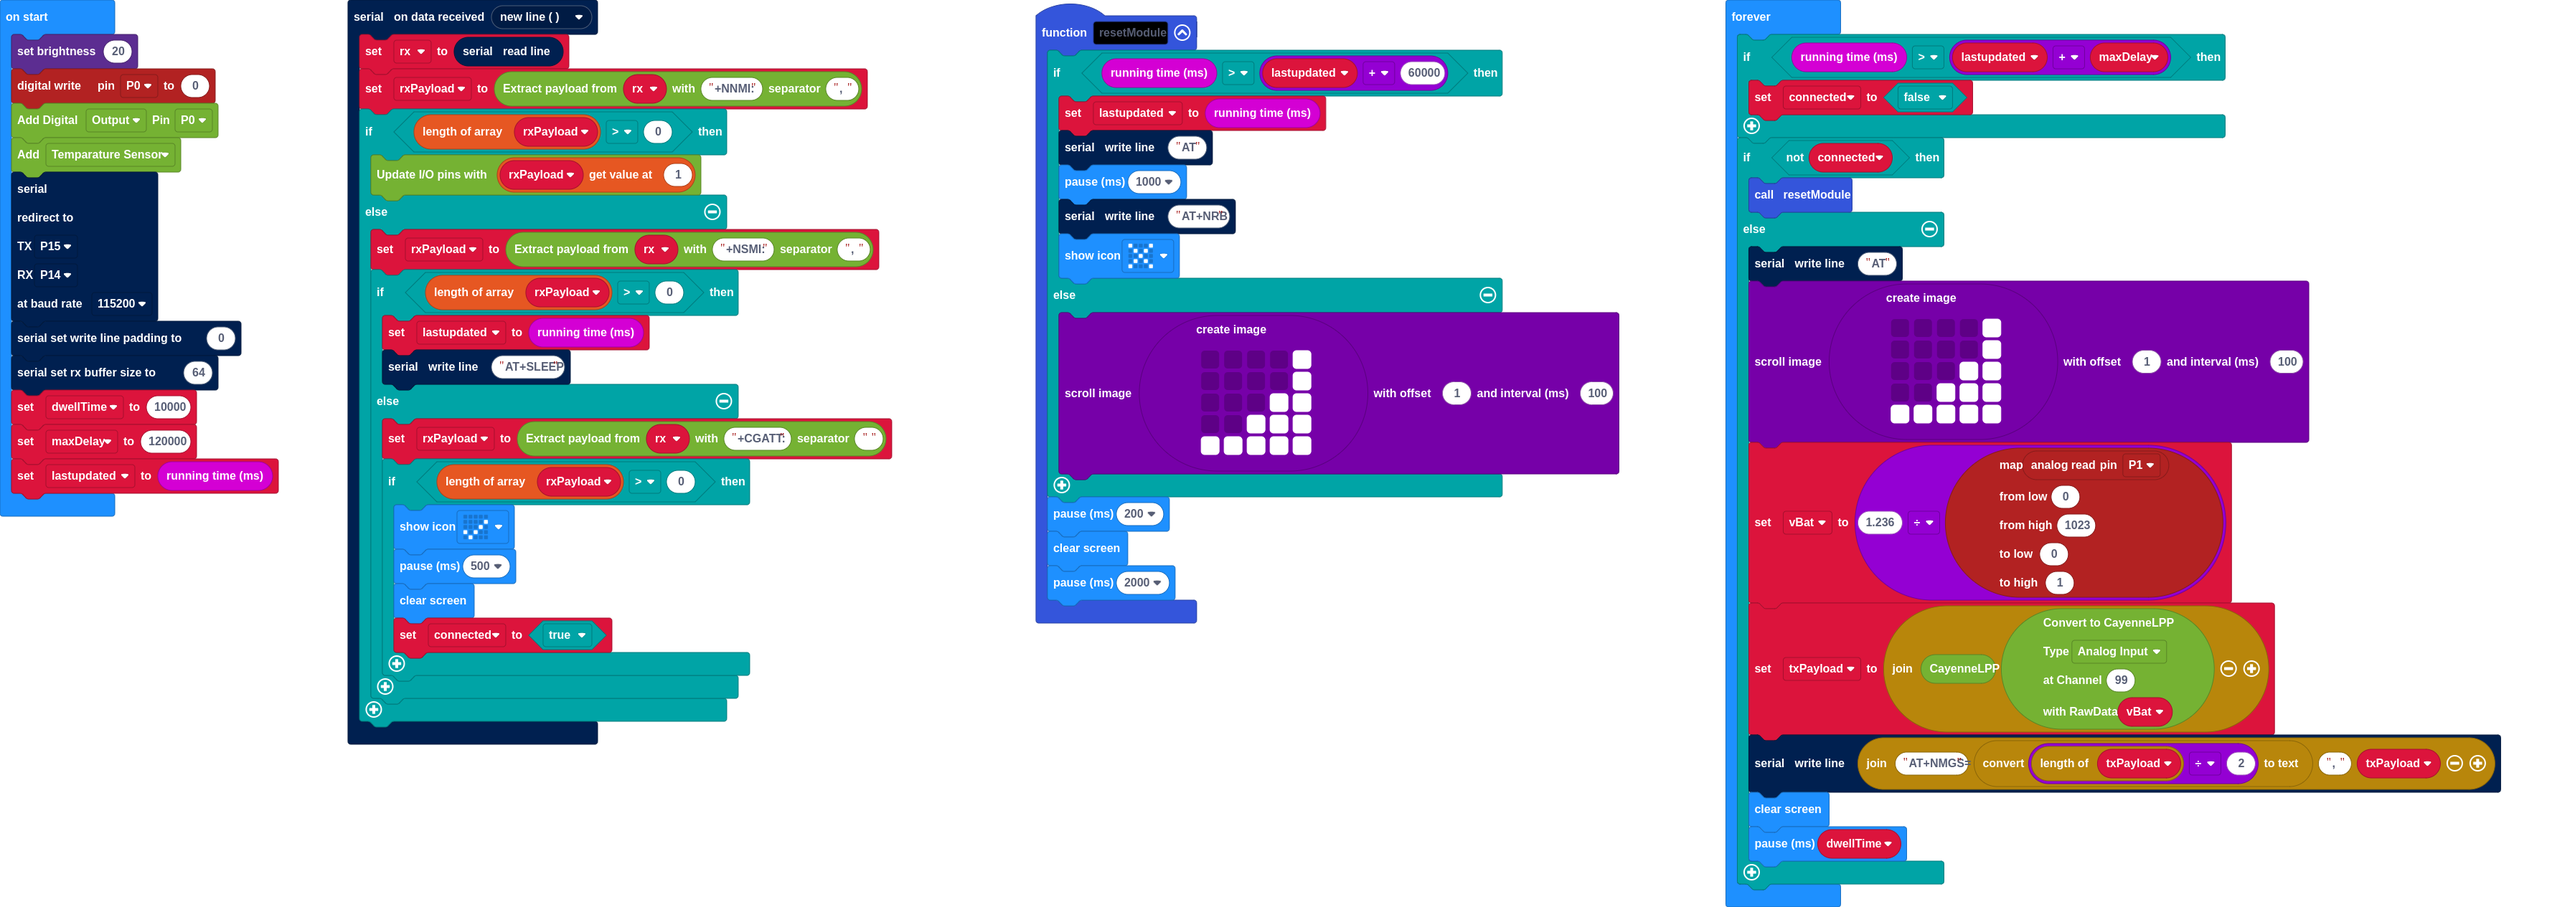
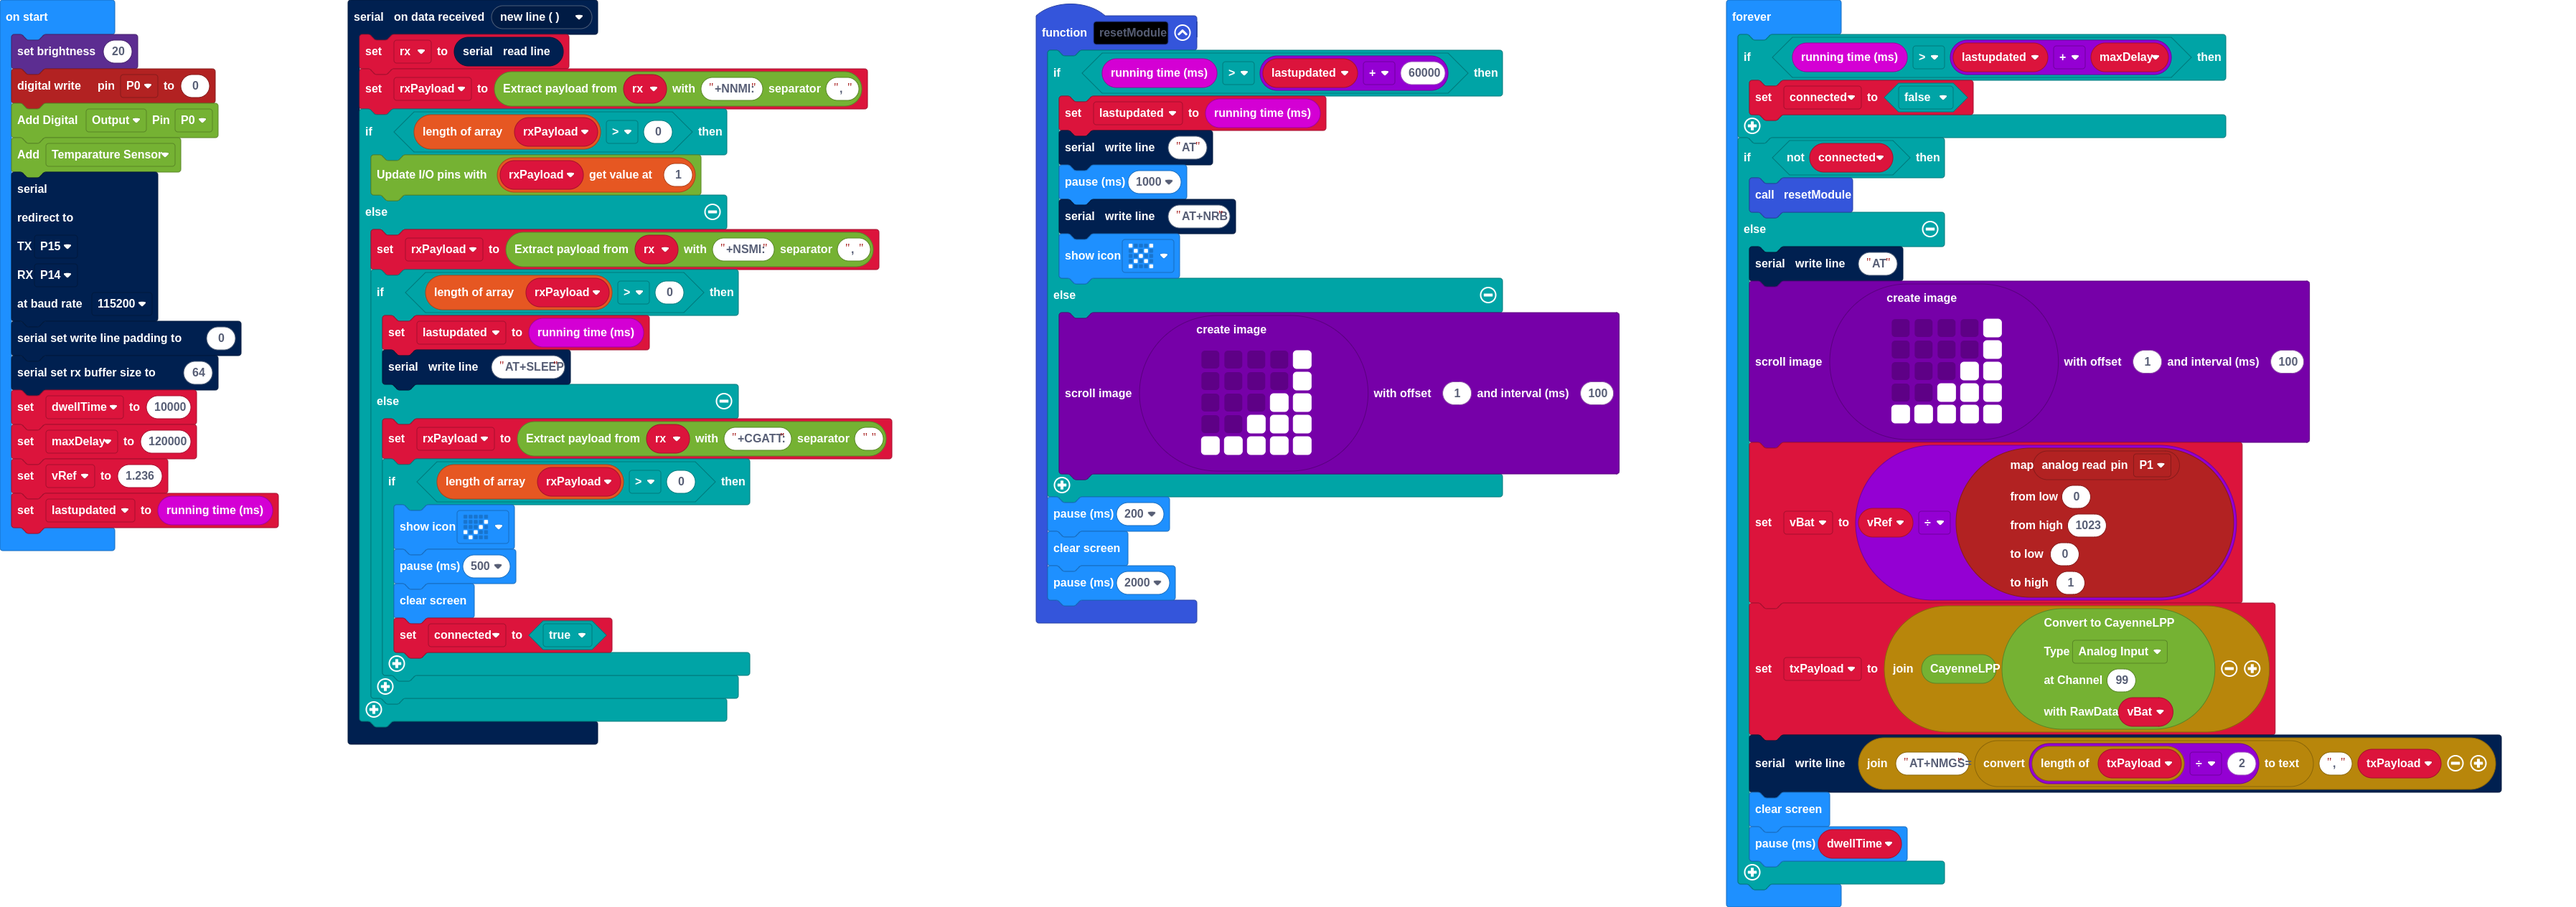
update

diff --git a/main.ts b/main.ts
@@ -58,6 +58,7 @@ serial.setWriteLinePadding(0)
 serial.setRxBufferSize(64)
 let dwellTime = 10000
 let maxDelay = 120000
+let vRef = 1.236
 lastupdated = input.runningTime()
 basic.forever(function () {
     if (input.runningTime() > lastupdated + maxDelay) {
@@ -74,7 +75,7 @@ basic.forever(function () {
             . . # # #
             # # # # #
             `).scrollImage(1, 100)
-        vBat = 1.236 / pins.map(
+        vBat = vRef / pins.map(
         pins.analogReadPin(AnalogPin.P1),
         0,
         1023,
